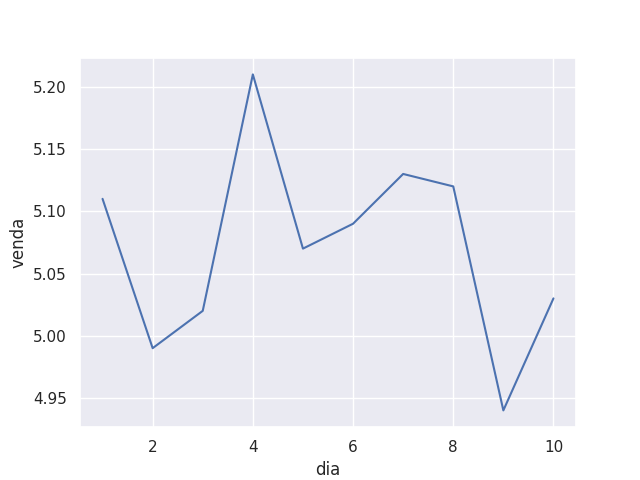
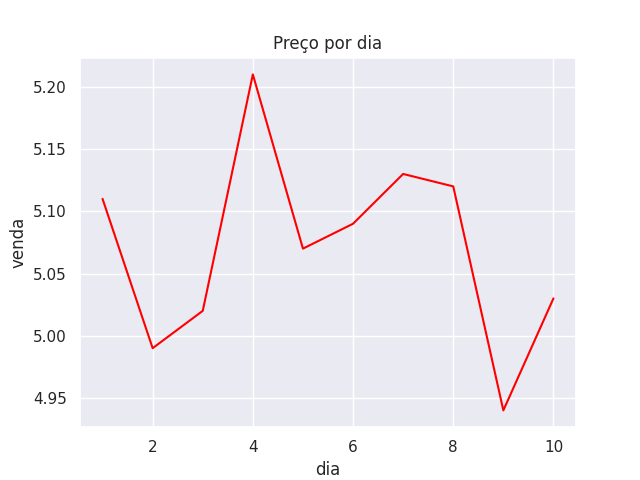
arquivos gasolina.png, gasolina.csv e gasolina.py criados para a branch develop

diff --git a/gasolina.py b/gasolina.py
@@ -5,8 +5,10 @@ import matplotlib.pyplot as plt
 
 dados = pd.read_csv('gasolina.csv')
 
-sns.set(style="darkgrid")  
+sns.set_style="whitegrid"  
+sns.color_palette("pastel")
 
-sns.lineplot(x='dia', y='venda', data=dados)
+sns.lineplot(x='dia', y='venda', data=dados, color='red')
+plt.title('Preço por dia')
 
-plt.show()
+plt.savefig('gasolina.png')
